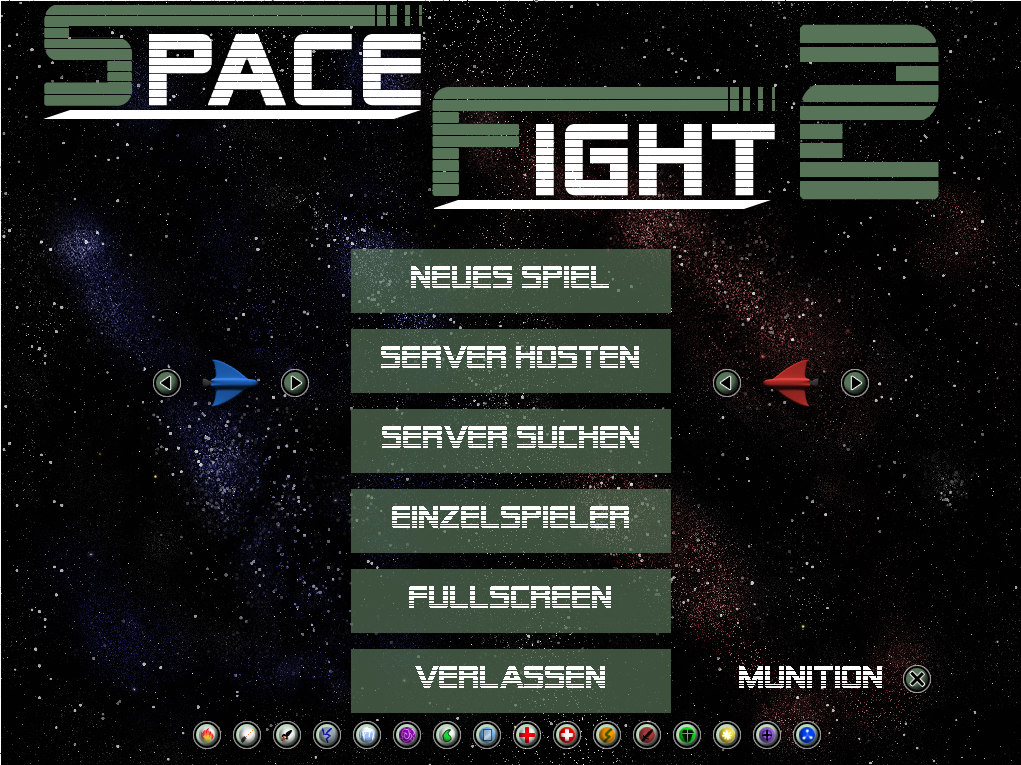
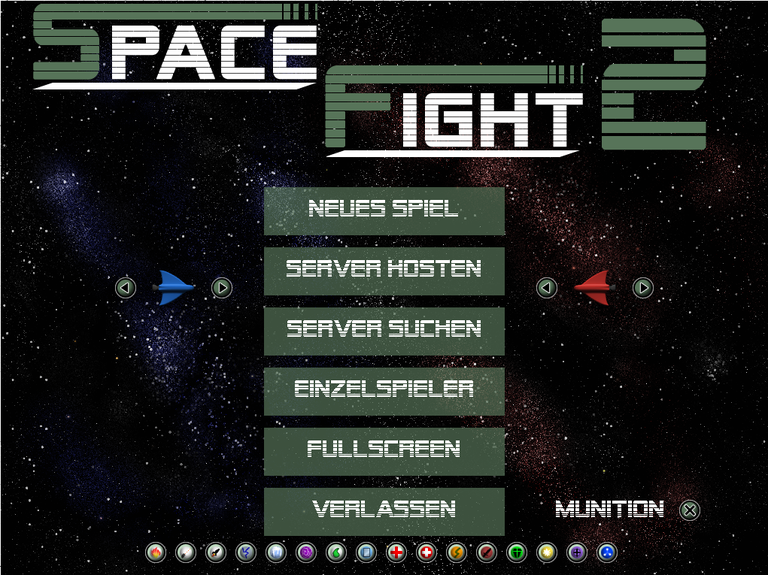
fixed image size for README

Changed region(s): [[0.5312, 0.7687, 0.5625, 0.7983]]

diff --git a/README.md b/README.md
@@ -9,7 +9,7 @@ This version dates back to august 2010 when I was 17 years old.
 I updated it slightly to compile with a modern GCC.
 A simple *make* should build it on Linux, for Windows there are binaries in *windows/SF2.zip*.
 
-![Space Fight Main Menu](docs/SF_menu.png "Space Fight Main Menu")
+![Space Fight Main Menu](doc/SF_menu.png "Space Fight Main Menu")
 
 ## Gameplay
 
@@ -18,7 +18,7 @@ Each player has to shoot its enemy until their lives drop to zero.
 Ammonition is limited, but new weapons, as well as buffs (e.g. for healing) spawn on the battlefield.
 You may enter your enemie's side, but you will lose life over time.
 
-![Space Fight Gameplay](docs/SF_gameplay.png "Space Fight Gameplay")
+![Space Fight Gameplay](doc/SF_gameplay.png "Space Fight Gameplay")
 
 ### Controls
 
